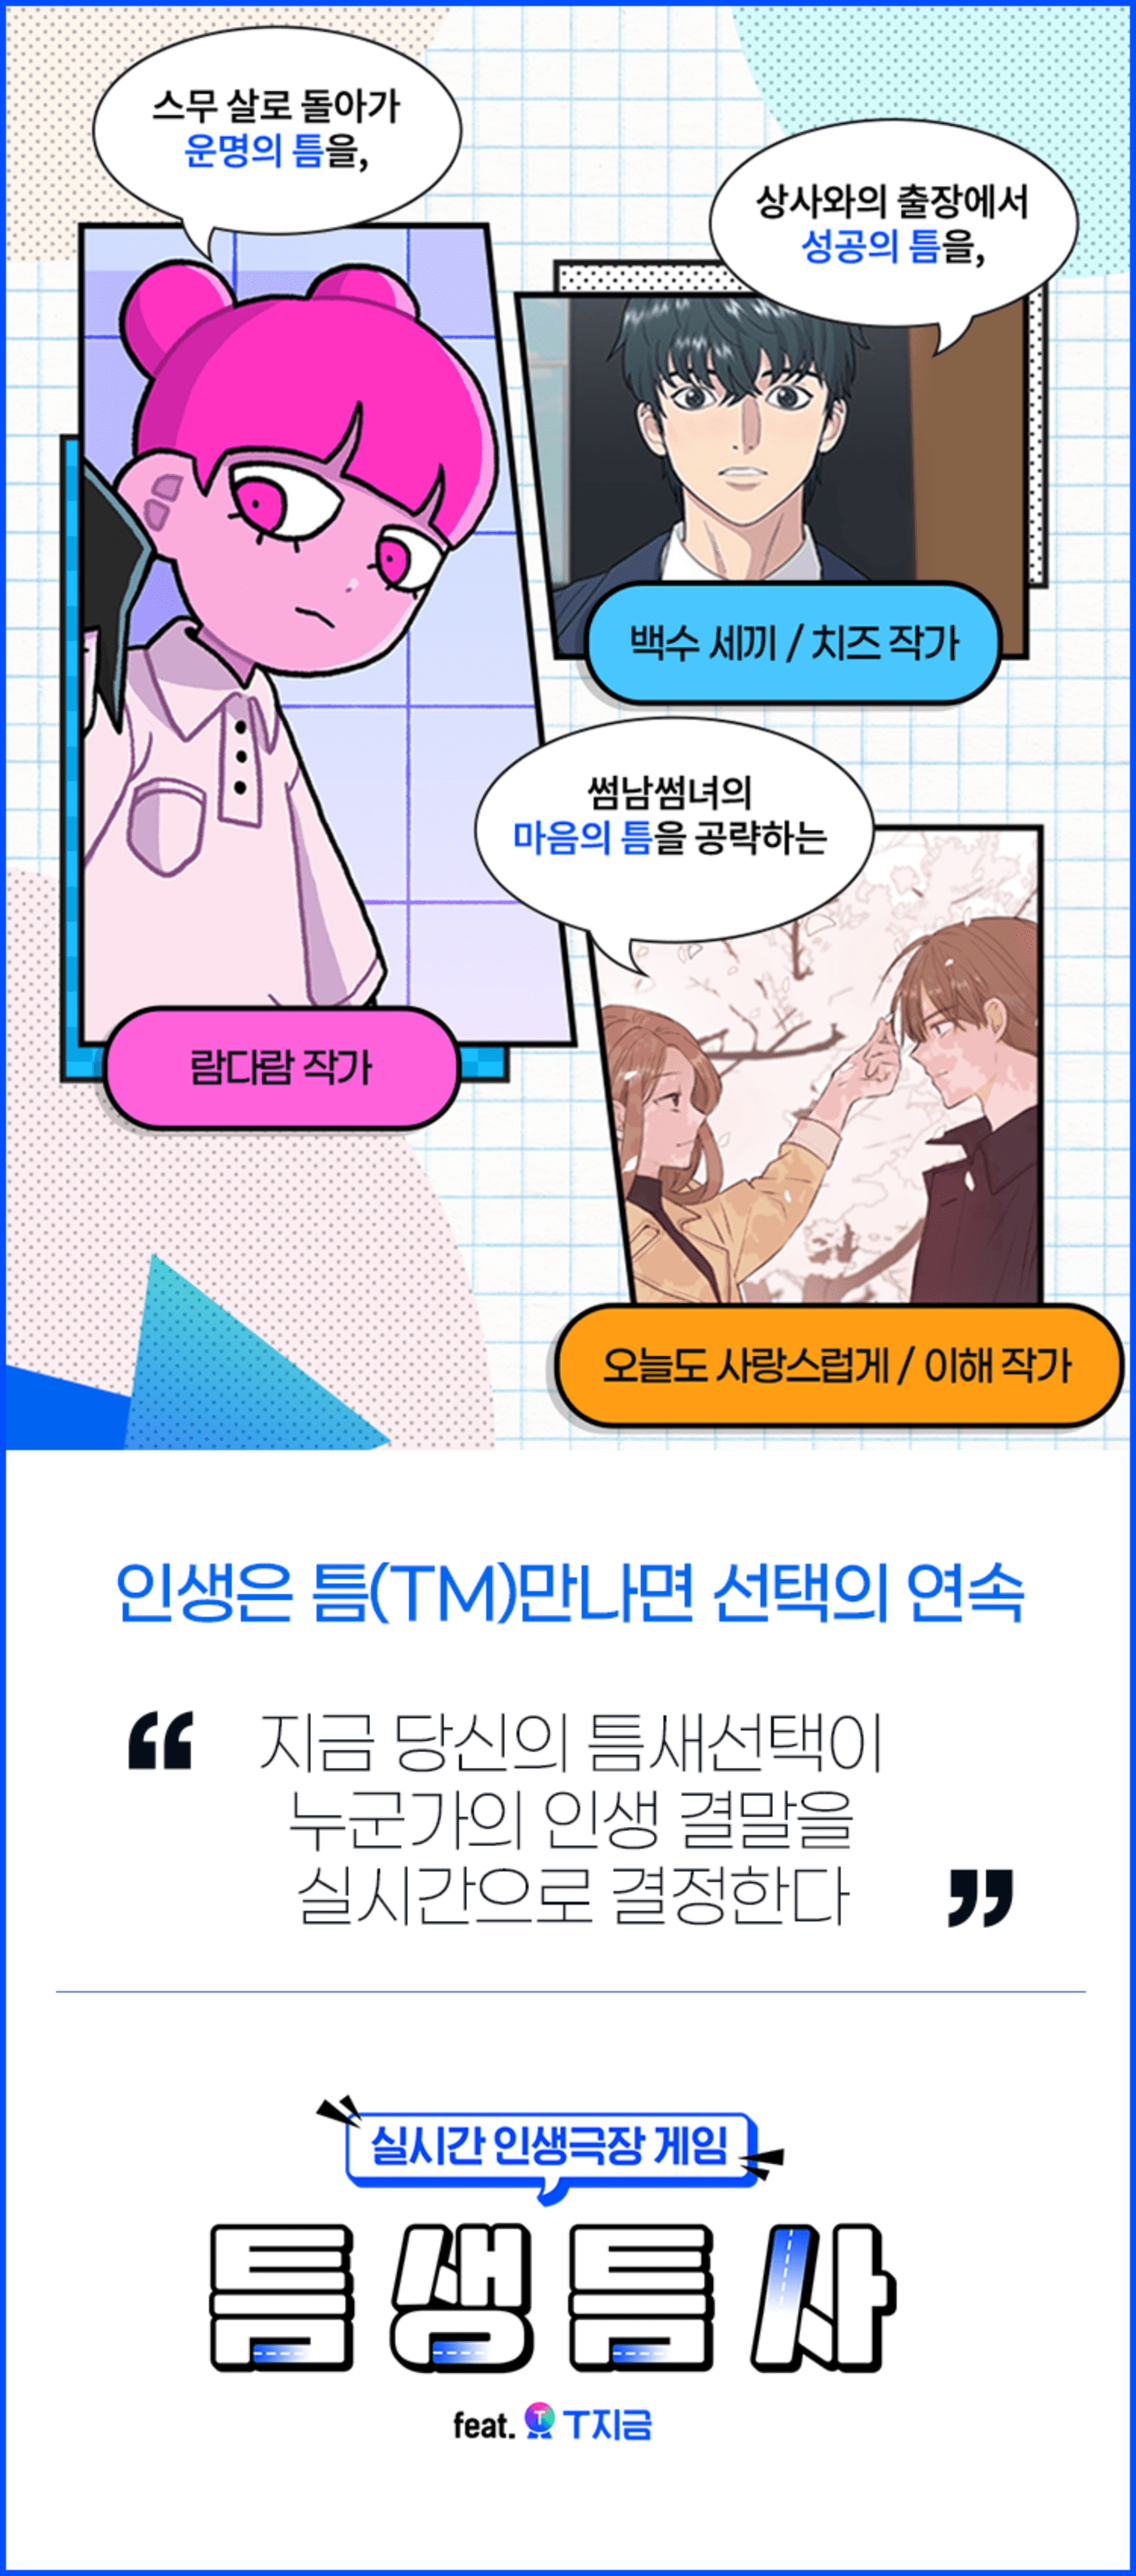
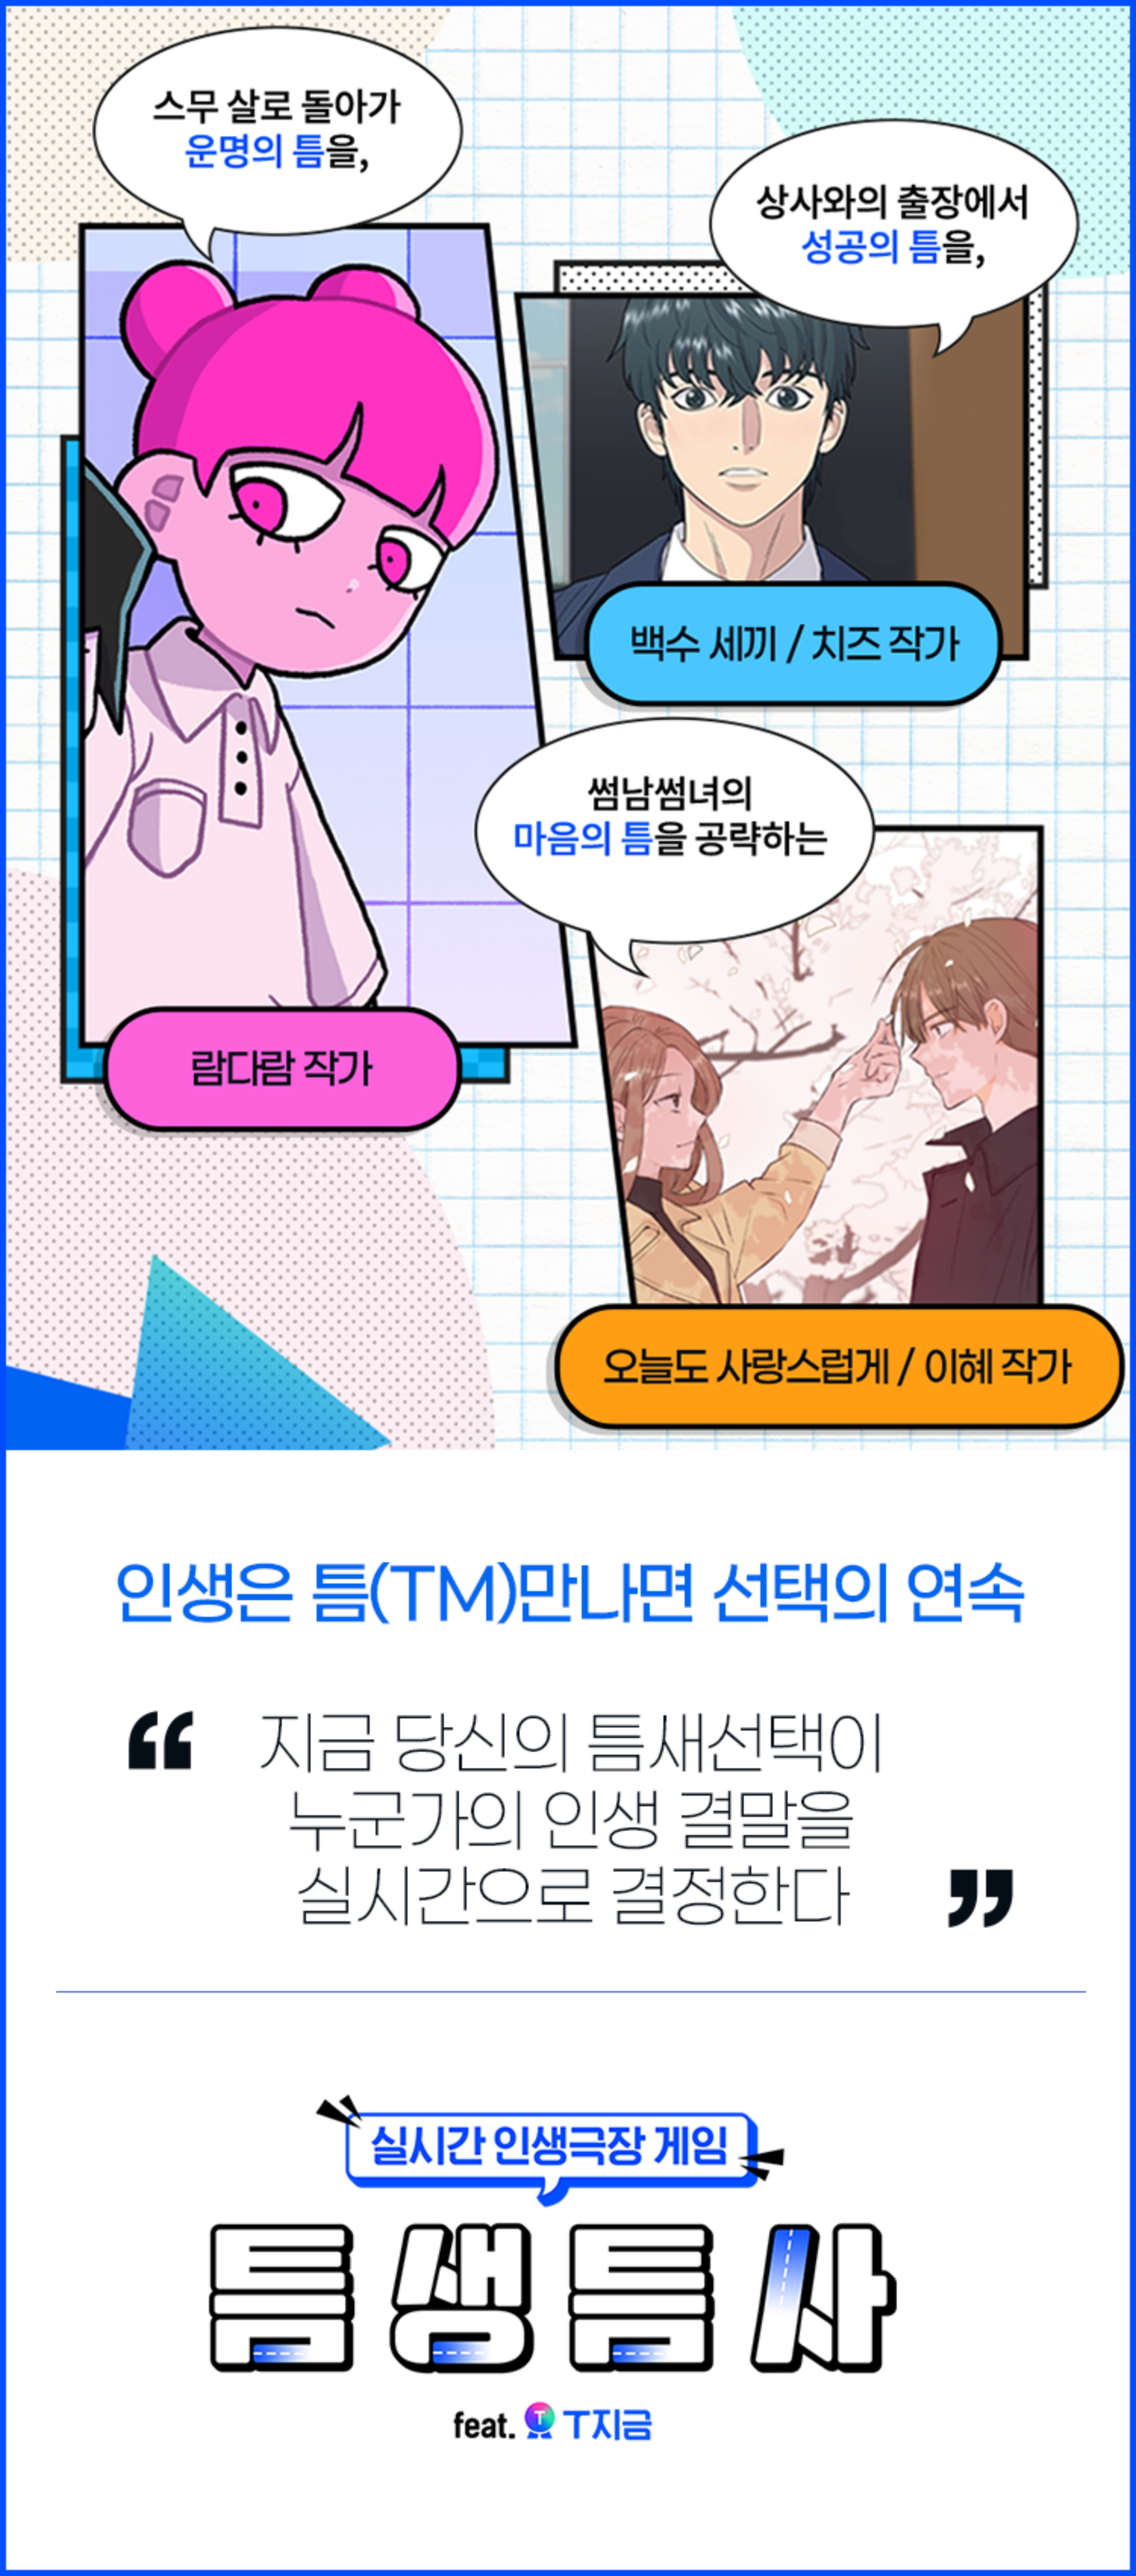
event_2 이미지 교체

diff --git a/index.html b/index.html
@@ -377,7 +377,7 @@
 
             <article id="tmapEvent" class="tmap-event-open open-211101">
                 <div class="img-box">
-                    <img src="/img/mobile/event_2.png" alt="" class="responsive">
+                    <img src="/img/mobile/event_2.png?v=1" alt="" class="responsive">
                 </div>
                 <div class="event-list">
                     <a href="javascript:void(0);" onclick="alert('coming soon');return false;">
